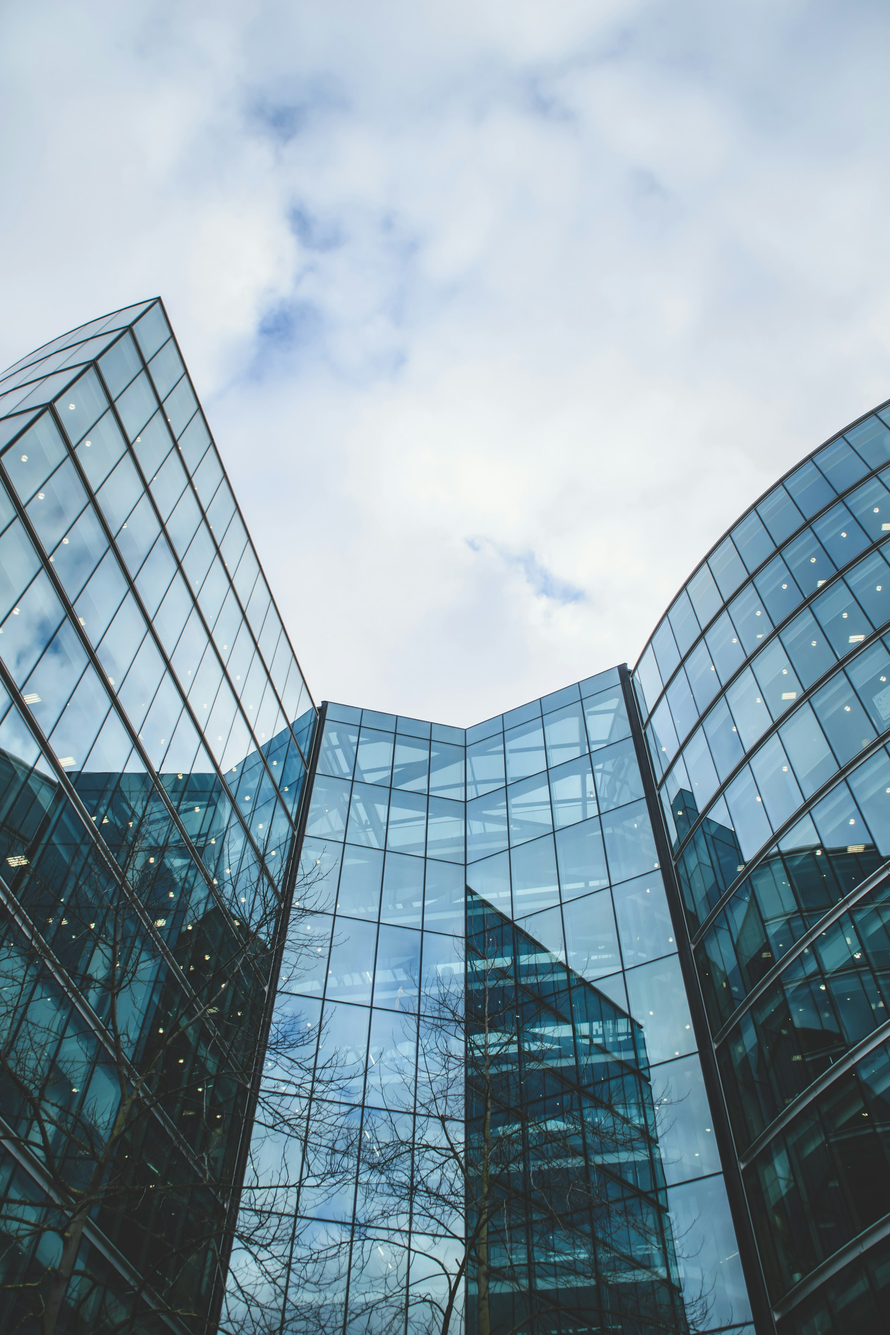
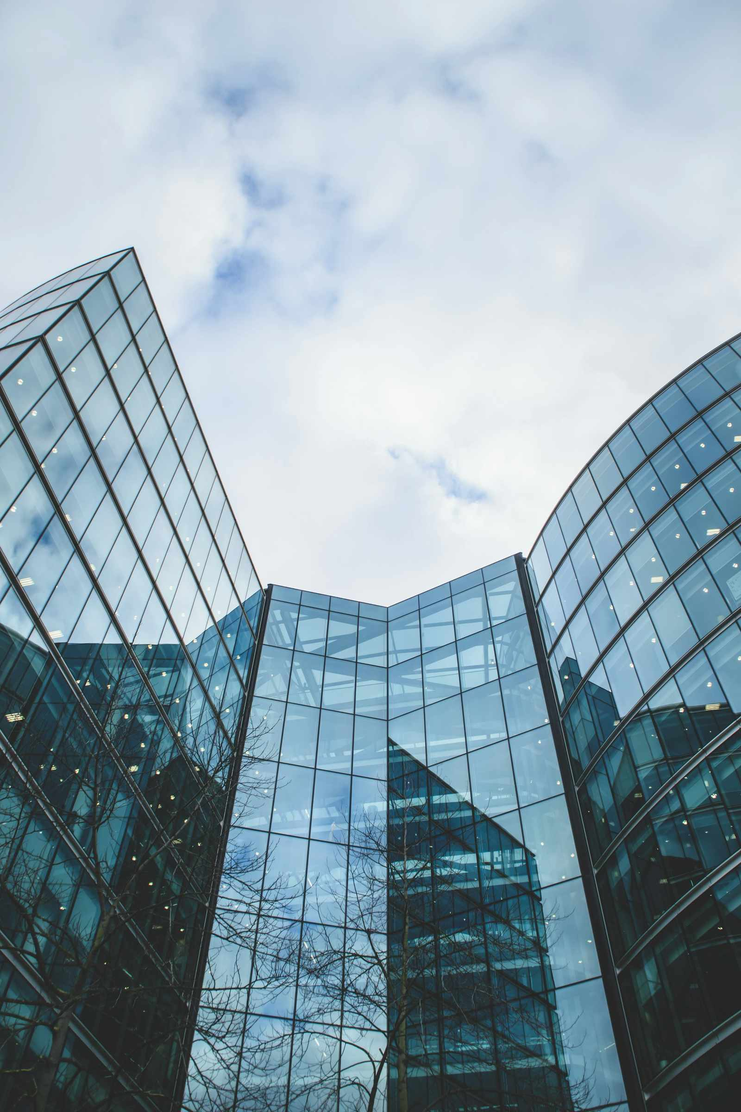
Reducción de tamaño en img + preload. Ajuste al inicializar la hora en la web.

diff --git a/app/components/content/description.tsx b/app/components/content/description.tsx
@@ -3,8 +3,6 @@
 import React, { useState, useEffect } from 'react';
 
 const Description = () => {
-    const [lastUpdateMessage, setLastUpdateMessage] = useState('');
-
     const getFormattedTime = () => {
         const now = new Date();
         return new Intl.DateTimeFormat('es-AR', {
@@ -15,15 +13,21 @@ const Description = () => {
         }).format(now);
     };
 
+    const [lastUpdateMessage, setLastUpdateMessage] = useState(`Última actualización hoy a las ${getFormattedTime()} hs`);
+
     useEffect(() => {
-        const time = getFormattedTime();
-        setLastUpdateMessage(`Última actualización hoy a las ${time} hs`);
+        const interval = setInterval(() => {
+            const time = getFormattedTime();
+            setLastUpdateMessage(`Última actualización hoy a las ${time} hs`);
+        }, 60000);
+
+        return () => clearInterval(interval);
     }, []);
 
     return (
         <section 
             className="relative bg-cover bg-center min-h-[400px] flex items-center"
-            style={{ backgroundImage: "url('/images/edificios.jpg')"}}
+            style={{ backgroundImage: "url('/images/edificios.jpg')", backgroundSize: 'cover', backgroundPosition: 'center'}}
         >
             <div 
                 className="absolute inset-0 w-full h-full" 

diff --git a/app/layout.tsx b/app/layout.tsx
@@ -151,6 +151,7 @@ export default function RootLayout({ children }: { children: React.ReactNode }) 
     <html lang="es">
 
       <head>
+        <link rel="preload" href="/images/edificios.jpg" as="image" />
         <script
           type="application/ld+json"
           dangerouslySetInnerHTML={{ __html: JSON.stringify(jsonLd) }}
